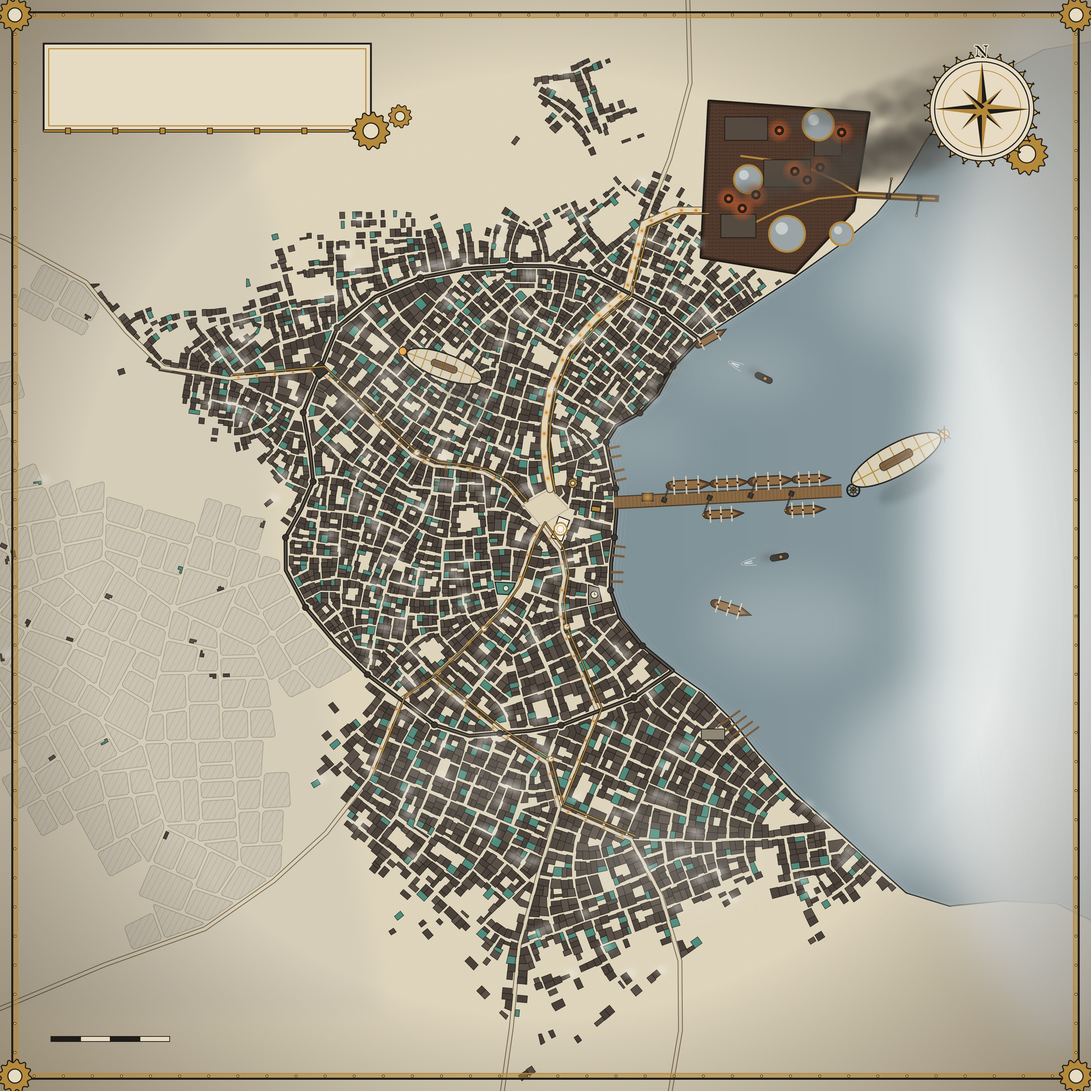
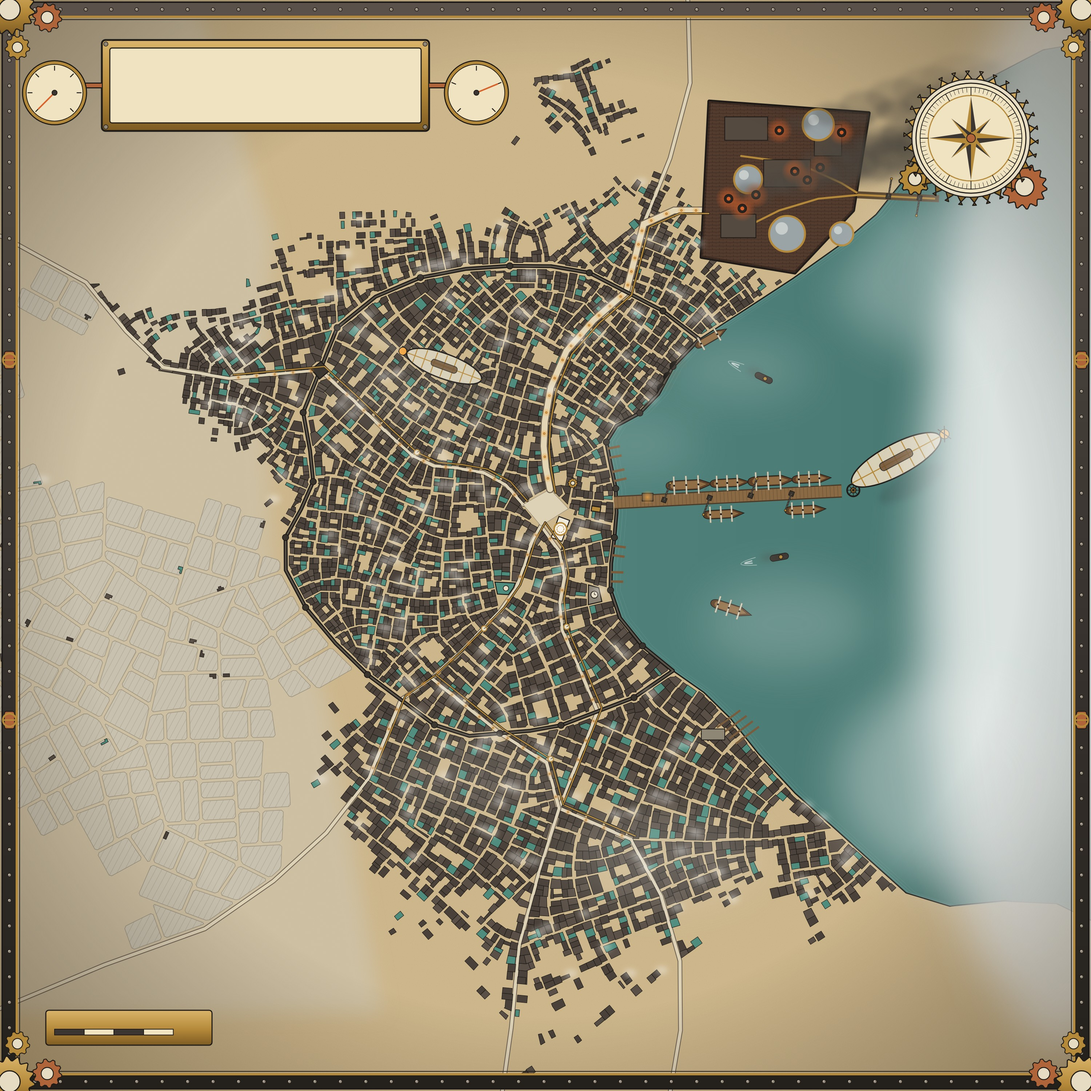
Ashford Roads city map: steampunk restyle to match the Known World chart (owner: "Do it")
Verdigris sea, sepia land, a riveted iron frame with pipes, valves and gear trains, a brass
astrolabe compass, a riveted title plate with a grade gauge (needle on F) and a charge gauge,
and a brass scale rule. Street plan, placements and labels unchanged.

Claude-Session: https://claude.ai/code/session_01GTFAprqijHyD6UUxPvG4xv

diff --git a/ashford-roads-city/watabou/build_map.py b/ashford-roads-city/watabou/build_map.py
@@ -66,7 +66,7 @@ LABELS = [  # (text, x, y, size, rotation, style)
     ("Undercourses outfalls", 450, 330, 20, 0, "small"),
     ("The Harbour", 470, -170, 40, 0, "water"),
     ("The Reach", 1080, -420, 64, 0, "water"),
-    ("into the brume", 1180, -560, 28, 0, "water"),
+    ("into the brume", 1180, -560, 28, 0, "fogl"),
 ]
 
 
@@ -134,7 +134,8 @@ def build(data: dict, labels: bool) -> str:
     defs = f"""
 <style>{font_face()}
 .lab{{font-family:"Fell",Georgia,serif;fill:{INK};paint-order:stroke;stroke:{PAPER};stroke-width:{6*s:.1f}px;stroke-linejoin:round}}
-.water{{font-style:italic;fill:#3d4a4f;stroke:#b7c2c4;letter-spacing:.12em}}
+.water{{font-style:italic;fill:#f0dfb3;stroke:#24403d;letter-spacing:.12em}}
+.fogl{{font-style:italic;fill:#4b5559;stroke:#eef0ee;letter-spacing:.14em}}
 .region{{letter-spacing:.25em;fill:#3a352e}}
 .street{{font-style:italic}}
 .place{{letter-spacing:.06em}}
@@ -148,13 +149,13 @@ def build(data: dict, labels: bool) -> str:
 <radialGradient id="vignette" cx="50%" cy="50%" r="72%"><stop offset="60%" stop-color="#000" stop-opacity="0"/><stop offset="100%" stop-color="#3a2a14" stop-opacity=".45"/></radialGradient>
 <radialGradient id="glow"><stop offset="0%" stop-color="{FIRE}" stop-opacity=".9"/><stop offset="100%" stop-color="{FIRE}" stop-opacity="0"/></radialGradient>
 <radialGradient id="lamp"><stop offset="0%" stop-color="{AMBER}" stop-opacity="1"/><stop offset="100%" stop-color="{AMBER}" stop-opacity="0"/></radialGradient>
-<linearGradient id="sea" x1="0" x2="1" y1="0" y2="0"><stop offset="0%" stop-color="#7f9298"/><stop offset="70%" stop-color="#93a3a7"/><stop offset="100%" stop-color="#c4c9c6"/></linearGradient>
+<linearGradient id="sea" x1="0" x2="1" y1="0" y2="0"><stop offset="0%" stop-color="#4f817a"/><stop offset="65%" stop-color="#3f6c67"/><stop offset="100%" stop-color="#2c4f4c"/></linearGradient><linearGradient id="ironband" x1="0" x2="0" y1="0" y2="1"><stop offset="0%" stop-color="#5a524a"/><stop offset="50%" stop-color="#3b3631"/><stop offset="100%" stop-color="#24201c"/></linearGradient><linearGradient id="brassplate" x1="0" x2="0" y1="0" y2="1"><stop offset="0%" stop-color="#d9b46a"/><stop offset="55%" stop-color="#B5893A"/><stop offset="100%" stop-color="#7d5b22"/></linearGradient>
 <pattern id="brick" width="{18*s:.1f}" height="{9*s:.1f}" patternUnits="userSpaceOnUse"><rect width="100%" height="100%" fill="#5a3b2c"/><path d="M0,{4.5*s:.1f} H{18*s:.1f} M{9*s:.1f},0 V{4.5*s:.1f} M0,{4.5*s:.1f} V{9*s:.1f}" stroke="#2a1d16" stroke-width="{1*s:.1f}"/></pattern>
 <pattern id="ash" width="{14*s:.1f}" height="{14*s:.1f}" patternUnits="userSpaceOnUse" patternTransform="rotate(28)">
  <rect width="100%" height="100%" fill="#c9c2b1"/><line x1="0" y1="0" x2="0" y2="{14*s:.1f}" stroke="#a39b89" stroke-width="{1.6*s:.1f}"/></pattern>
 """
     # paper
-    el.append(f'<rect width="{PX}" height="{PX}" fill="{PAPER}"/>')
+    el.append(f'<rect width="{PX}" height="{PX}" fill="#d2ba8c"/>')
     el.append(f'<rect width="{PX}" height="{PX}" fill="{PAPER}" filter="url(#paper)"/>')
     # ash land west and south-west: everything west of the walls is ash-grey under the fields
     el.append(poly([(X0, Y0), (-420, Y0), (-560, -500), (-700, -150), (-720, 300), (-700, 700), (-900, Y1), (X0, Y1)],
@@ -166,7 +167,7 @@ def build(data: dict, labels: bool) -> str:
         el.append(poly(p[0], fill="url(#sea)"))
         el.append(poly(p[0], fill="none", stroke=INK, stroke_width=f"{3*s:.1f}"))
         for k, op in [(10, .35), (22, .2), (36, .12)]:     # ripple lines inside the shore
-            el.append(poly(p[0], fill="none", stroke="#e9ecea", stroke_width=f"{1.4*s:.1f}", opacity=op,
+            el.append(poly(p[0], fill="none", stroke="#9cc4bb", stroke_width=f"{1.4*s:.1f}", opacity=op,
                            transform=f"translate({k*s*0.7:.1f},0)"))
     # roads (outside)
     R = F["roads"]["geometries"]
@@ -386,46 +387,81 @@ def build(data: dict, labels: bool) -> str:
         fx, fy = T((x, y))
         fog.append(f'<ellipse cx="{fx:.1f}" cy="{fy:.1f}" rx="{rx*s:.1f}" ry="{ry*s:.1f}" fill="#eef0ee" opacity="{op}" filter="url(#blur60)"/>')
     el.append(f'<g mask="url(#nofog)">{"".join(fog)}</g>')
-    # ---- frame, title, compass, scale, credit --------------------------------------------------------------------
+    # ---- steampunk frame, astrolabe compass, brass title plate with gauges, scale -------------------------------
+    IRON, COPPER = "#3b3631", "#b0643a"
     el.append(f'<rect width="{PX}" height="{PX}" fill="url(#vignette)"/>')
-    m = 34
-    el.append(f'<rect x="{m}" y="{m}" width="{PX-2*m}" height="{PX-2*m}" fill="none" stroke="{INK}" stroke-width="6"/>')
-    el.append(f'<rect x="{m+14}" y="{m+14}" width="{PX-2*m-28}" height="{PX-2*m-28}" fill="none" stroke="{BRASS}" stroke-width="3"/>')
-    el.append(f'<rect x="{m+7}" y="{m+7}" width="{PX-2*m-14}" height="{PX-2*m-14}" fill="none" stroke="{BRASS}" stroke-width="10" opacity=".55"/>')
-    for k in range(m + 60, PX - m - 40, 80):                                     # rivets
-        for (x, y) in [(k, m + 7), (k, PX - m - 7), (m + 7, k), (PX - m - 7, k)]:
-            el.append(f'<circle cx="{x}" cy="{y}" r="3.2" fill="#e0c27a" stroke="{INK}" stroke-width="1.2"/>')
-    for (x, y) in [(m + 7, m + 7), (PX - m - 7, m + 7), (m + 7, PX - m - 7), (PX - m - 7, PX - m - 7)]:
-        el.append(cog(x, y, 46, 12, sw=3))
-    # compass rose in the north-east sea
-    cx, cy, r = PX - 300, 300, 130
-    rose = [cog(cx + r * 0.95, cy + r * 0.95, 58, 14, sw=3), cog(cx, cy, r * 1.22, 24, fill="#c9a45a", sw=3, hole=0.9), f'<g transform="translate({cx},{cy})">', f'<circle r="{r*1.05}" fill="{PAPER}" opacity=".85"/>', f'<circle r="{r}" fill="none" stroke="{INK}" stroke-width="3"/>',
-            f'<circle r="{r*.82}" fill="none" stroke="{BRASS}" stroke-width="2"/>']
+    m = 26
+    el.append(f'<rect x="{m}" y="{m}" width="{PX-2*m}" height="{PX-2*m}" fill="none" stroke="url(#ironband)" stroke-width="40"/>'
+              f'<rect x="{m-20}" y="{m-20}" width="{PX-2*m+40}" height="{PX-2*m+40}" fill="none" stroke="{INK}" stroke-width="4"/>'
+              f'<rect x="{m+20}" y="{m+20}" width="{PX-2*m-40}" height="{PX-2*m-40}" fill="none" stroke="{BRASS}" stroke-width="6"/>'
+              f'<rect x="{m+28}" y="{m+28}" width="{PX-2*m-56}" height="{PX-2*m-56}" fill="none" stroke="{INK}" stroke-width="2"/>')
+    for k in range(m + 70, PX - m - 40, 70):                                       # rivets
+        for (x, y) in [(k, m), (k, PX - m), (m, k), (PX - m, k)]:
+            el.append(f'<circle cx="{x}" cy="{y}" r="5" fill="#8f8577" stroke="{INK}" stroke-width="1.5"/><circle cx="{x-1.5}" cy="{y-1.5}" r="1.6" fill="#d6cdbf"/>')
+    for y in (PX * .33, PX * .66):                                                 # valves on the side pipes
+        for x in (m, PX - m):
+            el.append(f'<rect x="{x-14}" y="{y-24:.0f}" width="28" height="48" rx="6" fill="{COPPER}" stroke="{INK}" stroke-width="2.4"/>'
+                      f'<circle cx="{x}" cy="{y:.0f}" r="18" fill="none" stroke="{BRASS}" stroke-width="5"/><line x1="{x-18}" y1="{y:.0f}" x2="{x+18}" y2="{y:.0f}" stroke="{BRASS}" stroke-width="4"/>')
+    for (x, y, sx_, sy_) in [(m, m, 1, 1), (PX - m, m, -1, 1), (m, PX - m, 1, -1), (PX - m, PX - m, -1, -1)]:
+        el.append(cog(x, y, 70, 14, fill="url(#brassplate)", sw=3) + cog(x + sx_ * 104, y + sy_ * 22, 40, 10, fill=COPPER, sw=2.4)
+                  + cog(x + sx_ * 22, y + sy_ * 104, 34, 9, sw=2.2))
+    # astrolabe compass in the north-east sea
+    cx, cy, r = PX - 330, 380, 140
+    el.append(cog(cx + r * 1.05, cy + r * .95, 62, 14, fill=COPPER) + cog(cx - r * 1.1, cy + r * .8, 44, 11)
+              + cog(cx, cy, r * 1.32, 30, fill="url(#brassplate)", hole=0.88))
+    rose = [f'<g transform="translate({cx},{cy})">', f'<circle r="{r*1.08}" fill="#efe3c2" stroke="{INK}" stroke-width="3"/>',
+            f'<circle r="{r}" fill="none" stroke="{INK}" stroke-width="2"/>', f'<circle r="{r*.84}" fill="none" stroke="{BRASS}" stroke-width="3"/>']
+    for d in range(0, 360, 5):
+        a = math.radians(d - 90)
+        L1 = r * (.9 if d % 30 else .84)
+        rose.append(f'<line x1="{L1*math.cos(a):.1f}" y1="{L1*math.sin(a):.1f}" x2="{r*math.cos(a):.1f}" y2="{r*math.sin(a):.1f}" stroke="{INK}" stroke-width="{2 if d % 30 == 0 else 1}"/>')
     for a in range(0, 360, 45):
-        L = r * (1 if a % 90 == 0 else .62)
+        L = r * (.82 if a % 90 == 0 else .55)
         ca, sa = math.cos(math.radians(a - 90)), math.sin(math.radians(a - 90))
-        cl, sl = math.cos(math.radians(a - 90 + 90)), math.sin(math.radians(a - 90 + 90))
-        w = 16 if a % 90 == 0 else 10
-        rose.append(f'<path d="M{ca*L:.1f},{sa*L:.1f} L{cl*w:.1f},{sl*w:.1f} L0,0Z" fill="{INK}"/><path d="M{ca*L:.1f},{sa*L:.1f} L{-cl*w:.1f},{-sl*w:.1f} L0,0Z" fill="{BRASS}"/>')
-    rose.append(f'<text y="{-r-14}" text-anchor="middle" class="lab place" font-size="44">N</text></g>')
+        cl, sl = math.cos(math.radians(a)), math.sin(math.radians(a))
+        w = 17 if a % 90 == 0 else 11
+        rose.append(f'<path d="M{ca*L:.1f},{sa*L:.1f} L{cl*w:.1f},{sl*w:.1f} L0,0Z" fill="{IRON}"/><path d="M{ca*L:.1f},{sa*L:.1f} L{-cl*w:.1f},{-sl*w:.1f} L0,0Z" fill="{BRASS}"/>')
+    rose.append(f'<circle r="12" fill="{COPPER}" stroke="{INK}" stroke-width="2"/>')
+    rose.append((f'<text y="{-r*1.42:.0f}" text-anchor="middle" class="lab place" font-size="50" style="stroke-width:0">N</text>' if labels else "") + "</g>")
     el.append("".join(rose))
-    # scale bar: Watabou units are about a metre
+
+    def gauge(gx, gy, r, ticks, needle_i, title=""):
+        g = [f'<circle cx="{gx}" cy="{gy}" r="{r+10}" fill="{BRASS}" stroke="{INK}" stroke-width="3"/>',
+             f'<circle cx="{gx}" cy="{gy}" r="{r}" fill="#efe3c2" stroke="{INK}" stroke-width="2"/>']
+        n = len(ticks)
+        for i, t in enumerate(ticks):
+            a = math.radians(-225 + 270 * i / (n - 1))
+            g.append(f'<line x1="{gx+r*.78*math.cos(a):.1f}" y1="{gy+r*.78*math.sin(a):.1f}" x2="{gx+r*.95*math.cos(a):.1f}" y2="{gy+r*.95*math.sin(a):.1f}" stroke="{INK}" stroke-width="2.5"/>')
+            if labels and t:
+                g.append(f'<text x="{gx+r*.58*math.cos(a):.1f}" y="{gy+r*.58*math.sin(a)+8:.1f}" font-size="{r*.26:.0f}" text-anchor="middle" class="lab" style="stroke-width:0">{t}</text>')
+        a = math.radians(-225 + 270 * needle_i / (n - 1))
+        g.append(f'<line x1="{gx}" y1="{gy}" x2="{gx+r*.8*math.cos(a):.1f}" y2="{gy+r*.8*math.sin(a):.1f}" stroke="{FIRE}" stroke-width="4" stroke-linecap="round"/>'
+                 f'<circle cx="{gx}" cy="{gy}" r="7" fill="{IRON}" stroke="{INK}" stroke-width="2"/>')
+        if labels and title:
+            g.append(f'<text x="{gx}" y="{gy+r*.62:.0f}" font-size="{r*.17:.0f}" text-anchor="middle" class="lab street" style="stroke-width:0">{title}</text>')
+        return "".join(g)
+
+    # scale bar: Watabou units are about a metre; a riveted brass rule
     ft = 0.3048
-    bx0, by0 = 140, PX - 150
+    bx0, by0 = 150, PX - 170
     seg = 250 * ft * K
+    el.append(f'<rect x="{bx0-24}" y="{by0-52}" width="{4*seg+130:.0f}" height="96" rx="8" fill="url(#brassplate)" stroke="{INK}" stroke-width="3"/>')
     for i in range(4):
-        el.append(f'<rect x="{bx0+i*seg:.1f}" y="{by0}" width="{seg:.1f}" height="14" fill="{INK if i%2==0 else PAPER}" stroke="{INK}" stroke-width="2"/>')
+        el.append(f'<rect x="{bx0+i*seg:.1f}" y="{by0}" width="{seg:.1f}" height="16" fill="{IRON if i%2==0 else "#efe3c2"}" stroke="{INK}" stroke-width="2"/>')
     if labels:
         for i in range(5):
-            el.append(f'<text x="{bx0+i*seg:.1f}" y="{by0-12}" text-anchor="middle" class="lab small" font-size="26">{i*250}</text>')
-        el.append(f'<text x="{bx0+4*seg+18:.1f}" y="{by0+14}" class="lab small" font-size="26">feet</text>')
-    # cartouche
-    tx, ty = 120, 120
-    el.append(f'<rect x="{tx}" y="{ty}" width="900" height="240" fill="{PAPER}" stroke="{INK}" stroke-width="5"/>'
-              f'<rect x="{tx+14}" y="{ty+14}" width="872" height="212" fill="none" stroke="{BRASS}" stroke-width="3"/>')
-    el.append(cog(tx + 900, ty + 240, 52, 12, sw=3) + cog(tx + 980, ty + 200, 32, 10, sw=2.4))
-    el.append(f'<path d="M{tx},{ty+240} H{tx+840}" stroke="{INK}" stroke-width="9"/><path d="M{tx},{ty+240} H{tx+840}" stroke="{BRASS}" stroke-width="5"/>'
-              + "".join(f'<rect x="{tx+60+i*130}" y="{ty+232}" width="14" height="16" fill="{BRASS}" stroke="{INK}" stroke-width="2"/>' for i in range(6)))
+            el.append(f'<text x="{bx0+i*seg:.1f}" y="{by0-12}" text-anchor="middle" class="lab small" font-size="26" style="stroke-width:0">{i*250}</text>')
+        el.append(f'<text x="{bx0+4*seg+18:.1f}" y="{by0+15}" class="lab small" font-size="26" style="stroke-width:0">feet</text>')
+    # title plate: riveted brass, piped to a grade gauge (needle on F) and a pressure gauge for the charge mains
+    tx, ty = 280, 110
+    tw, th = 900, 250
+    el.append(f'<rect x="{tx}" y="{ty}" width="{tw}" height="{th}" rx="10" fill="url(#brassplate)" stroke="{INK}" stroke-width="5"/>'
+              f'<rect x="{tx+22}" y="{ty+22}" width="{tw-44}" height="{th-44}" rx="6" fill="#efe3c2" stroke="{INK}" stroke-width="3"/>'
+              + "".join(f'<circle cx="{x}" cy="{y}" r="6" fill="#8f8577" stroke="{INK}" stroke-width="1.5"/>' for x in (tx + 11, tx + tw - 11) for y in (ty + 11, ty + th - 11))
+              + f'<path d="M{tx-60},{ty+th/2} H{tx}" stroke="{INK}" stroke-width="16"/><path d="M{tx-60},{ty+th/2} H{tx}" stroke="{COPPER}" stroke-width="10"/>'
+              f'<path d="M{tx+tw},{ty+th/2} H{tx+tw+60}" stroke="{INK}" stroke-width="16"/><path d="M{tx+tw},{ty+th/2} H{tx+tw+60}" stroke="{COPPER}" stroke-width="10"/>')
+    el.append(gauge(tx - 130, ty + th / 2 + 20, 78, ["F", "E", "D", "C", "B", "A", "S"], 0, "grade"))
+    el.append(gauge(tx + tw + 130, ty + th / 2 + 20, 78, ["", "", "", "", ""], 3, "charge"))
     if labels:
         el.append(f'<text x="{tx+450}" y="{ty+120}" text-anchor="middle" class="lab place" font-size="104" style="stroke-width:0">Ashford Roads</text>'
                   f'<text x="{tx+450}" y="{ty+180}" text-anchor="middle" class="lab street" font-size="38" style="stroke-width:0">the home port of the Reach · grade F</text>')

diff --git a/ashford-roads-city/watabou/README.md b/ashford-roads-city/watabou/README.md
@@ -49,3 +49,10 @@ roads with gauges, charge-lamps on every main road (densest on Refinery Row), ch
 on the Long Quay and the refinery pier, two charge-engined tugs in the harbour, a second sky ship in flight over the
 walls (two in all, since they are rare), larger domed brume tanks at the refinery, and a riveted brass frame with
 cogs on the corners, the compass and the title.
+
+## Steampunk restyle (the owner, 19 Nov 2026: "Do it", to match the Known World chart)
+
+The same look as `world/`: a verdigris sea and sepia land, a riveted iron frame with copper pipes, valves and gear
+trains, a brass astrolabe compass on gears, a riveted brass title plate piped to a grade gauge (F to S, the needle on
+F) and a charge-mains pressure gauge, and a brass scale rule. The street plan, the placements and the labels are
+unchanged.
